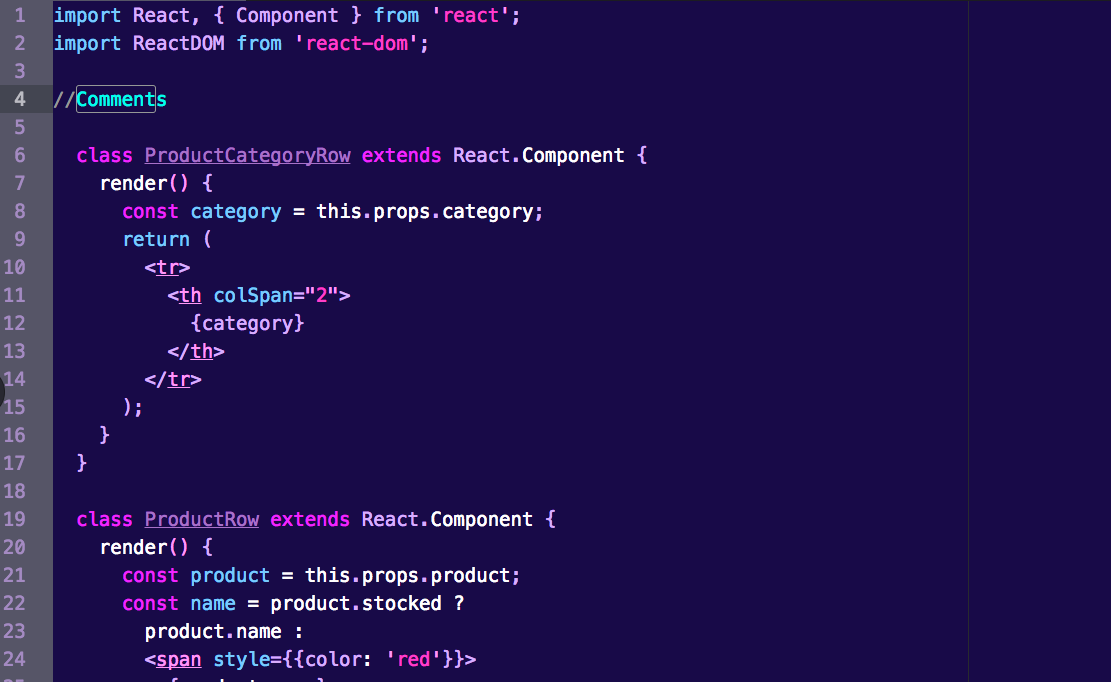
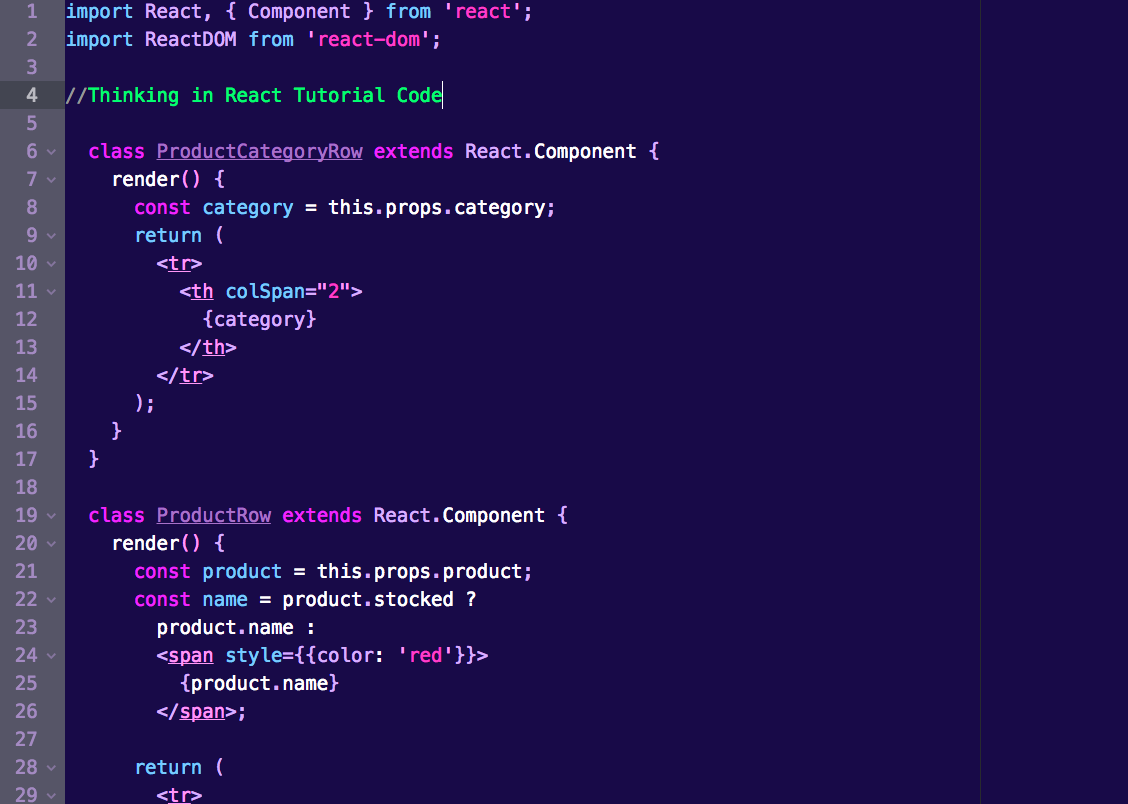
better green

Changed region(s): [[0.0, 0.0, 0.5815, 1.0], [0.0918, 0.5235, 0.1224, 0.5543]]

diff --git a/styles/cg-colors.less b/styles/cg-colors.less
@@ -1,6 +1,6 @@
 @cg-purple:	#DC67FF;
 @cg-blue: #4BC2FB;
-@cg-light-green:  #1AFFD1;
+@cg-light-green:  #3EF870;
 @cg-dark-blue: #131546;
 @cg-gray: #555666;
 @cg-light-blue: #86CBFB;
